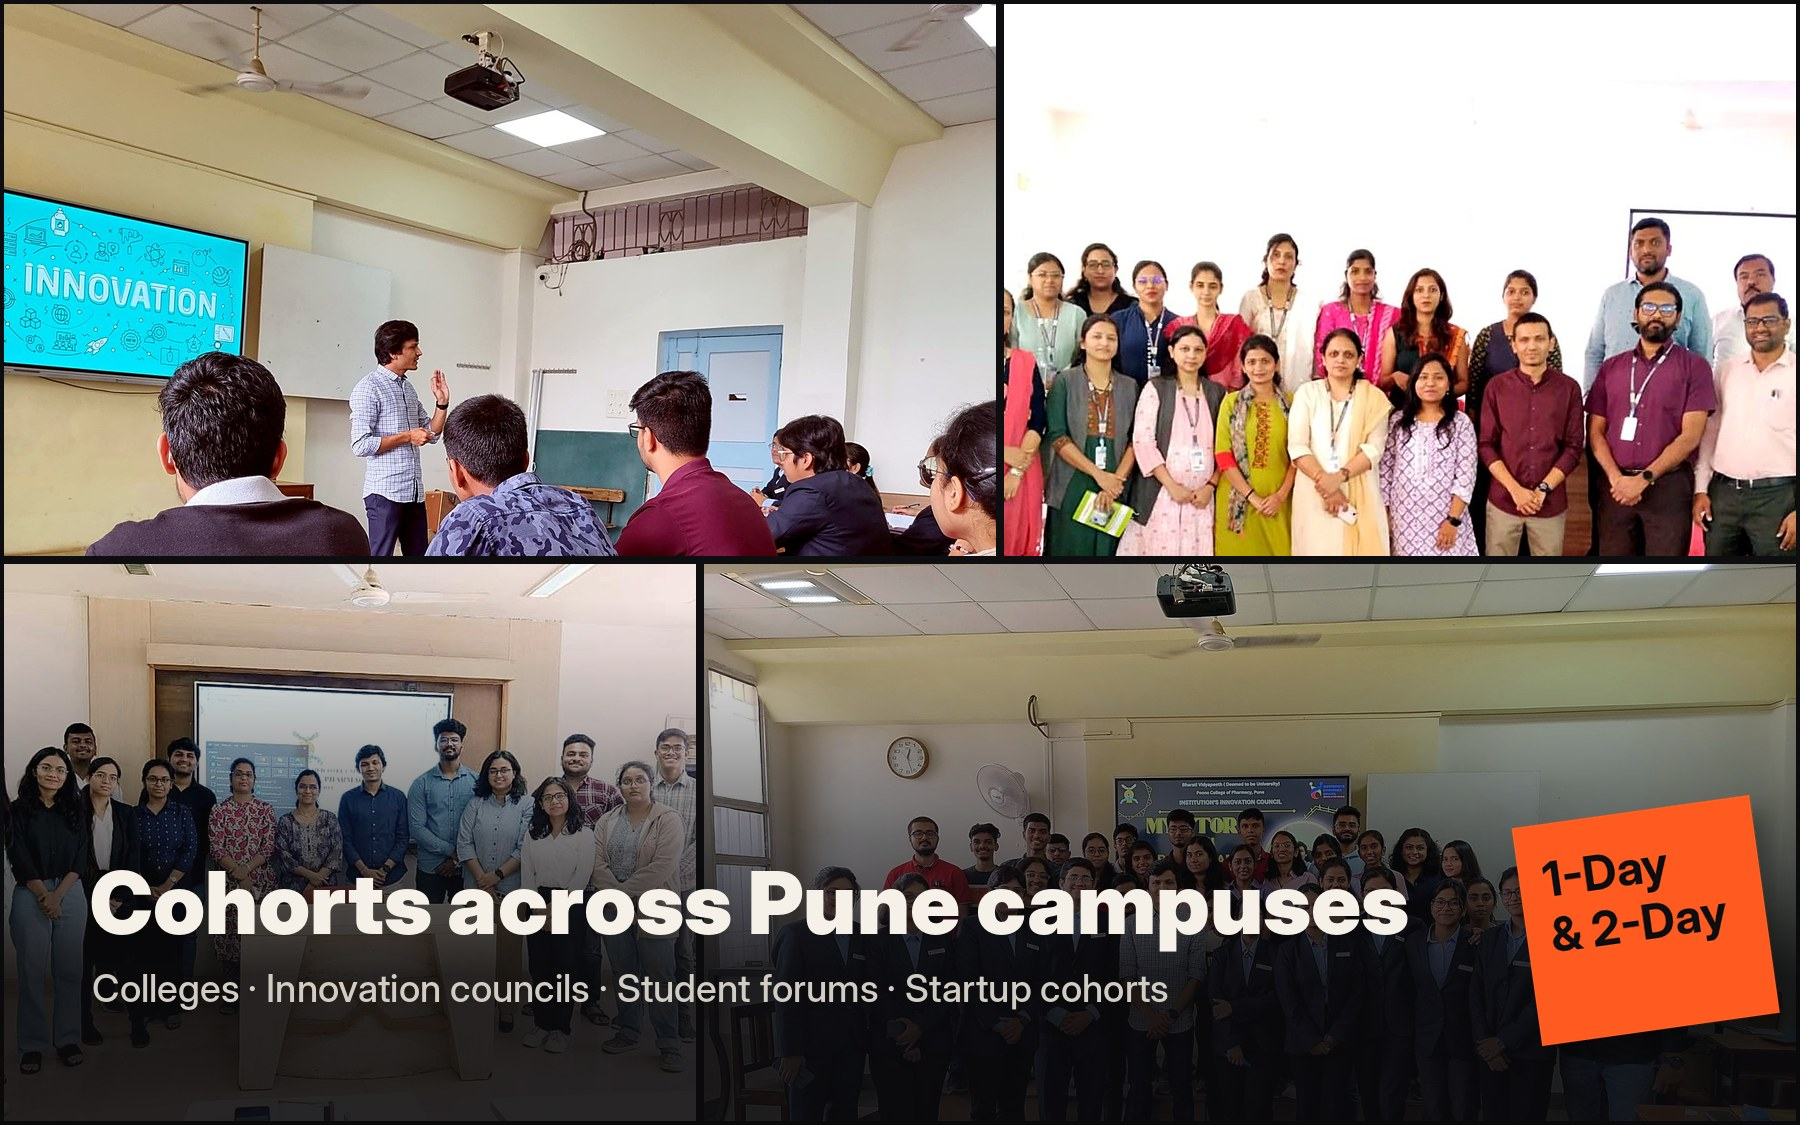
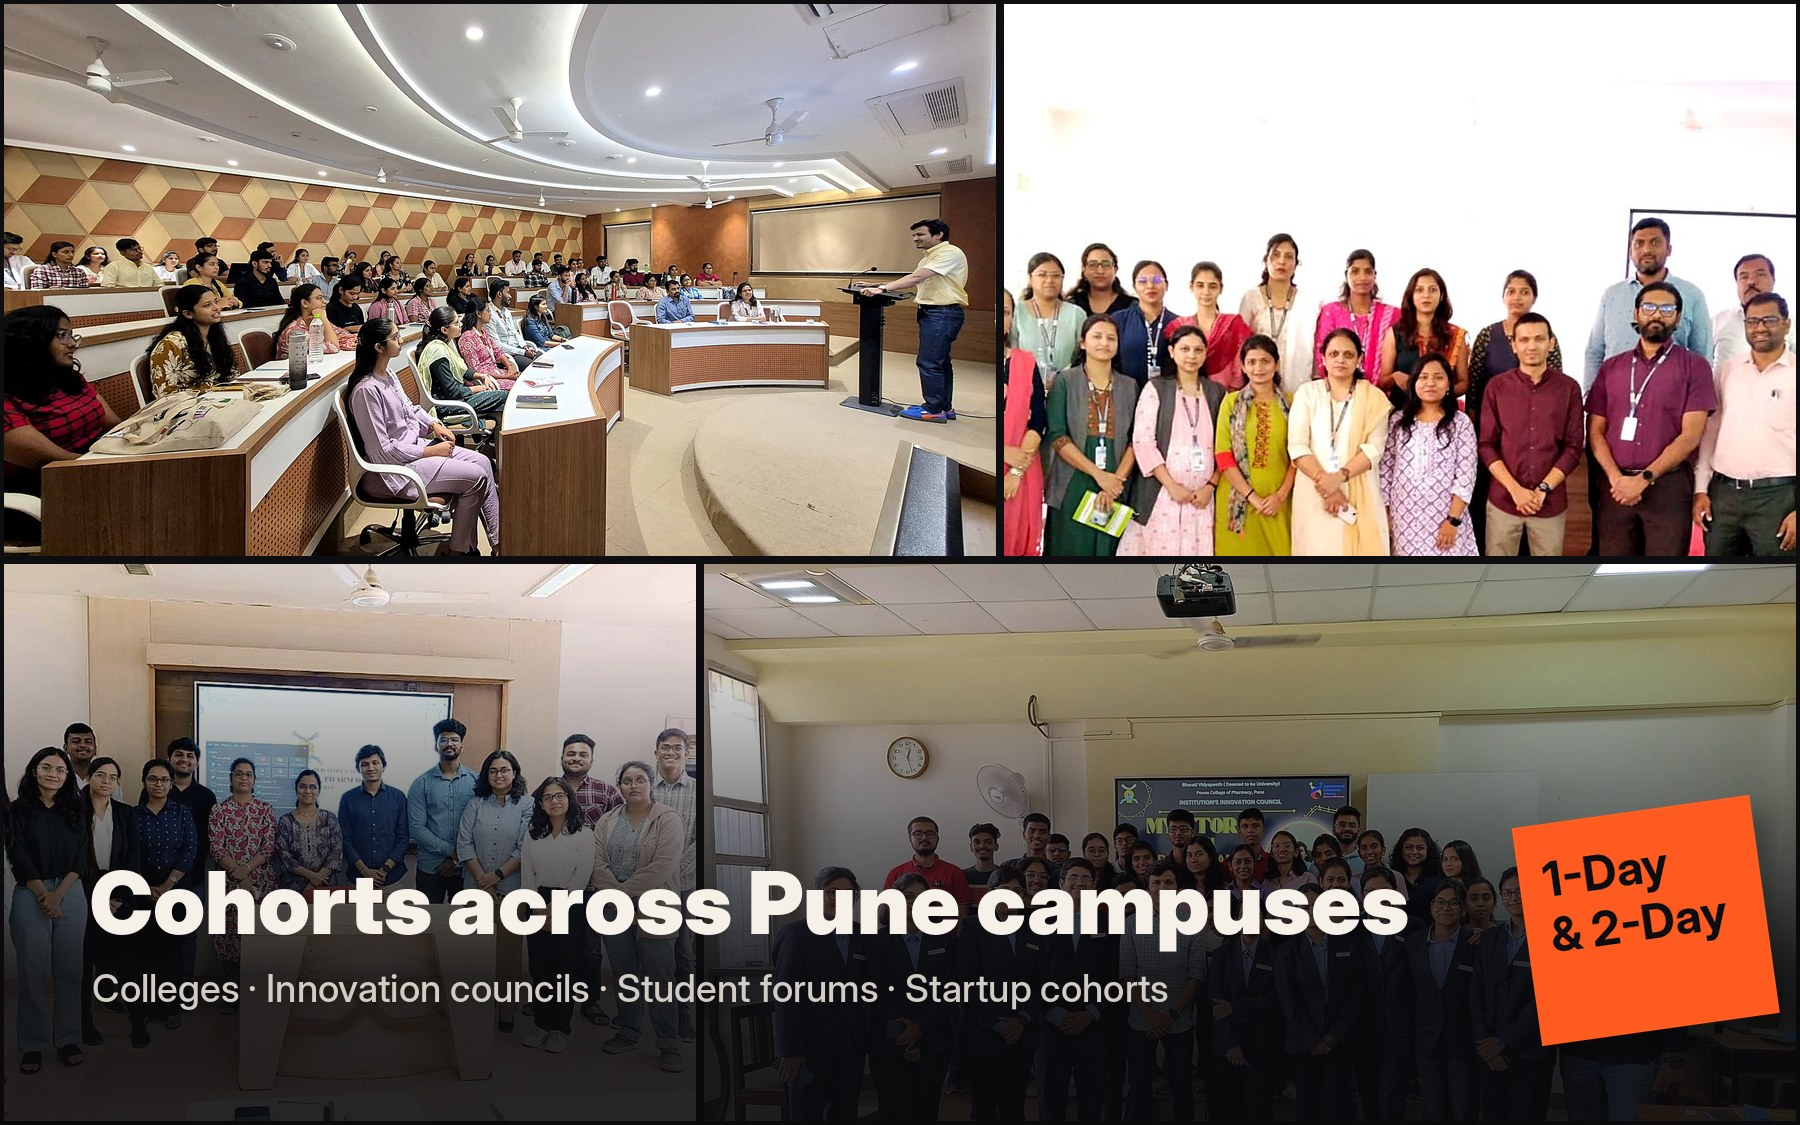
Gallery: add Dr. D. Y. Patil, Pimpri-Chinchwad auditorium photos
Claude-Session: https://claude.ai/code/session_014o5ZHnjMXf5SUri4hk32Rd

Changed region(s): [[0.0, 0.0, 0.56, 0.4978]]

diff --git a/index.html b/index.html
@@ -789,6 +789,7 @@ footer a:hover{color:#fff}
     </div>
     <div class="masonry" id="gal-photos">
       <figure class="reveal"><img src="assets/img/g-podium.jpg" alt="Dr. Niiraj addressing students at MET Bhujbal Knowledge City" loading="lazy" /><figcaption>Keynote at MET Institute of Pharmacy</figcaption></figure>
+      <figure class="reveal"><img src="assets/img/g-dyp-talk.jpg" alt="Dr. Niiraj speaking on Scope and Opportunities after PharmD at Dr. D. Y. Patil, Pimpri-Chinchwad" loading="lazy" /><figcaption>"Scope &amp; Opportunities after PharmD" — Dr. D. Y. Patil, Pimpri-Chinchwad</figcaption></figure>
       <figure class="reveal"><img src="assets/img/g-students-huddle.jpg" alt="Students gathered around during a workshop activity" loading="lazy" /><figcaption>Up close with the cohort</figcaption></figure>
       <figure class="reveal"><img src="assets/img/g-business-model.jpg" alt="Student presenting a business model" loading="lazy" /><figcaption>Business model pitch</figcaption></figure>
       <figure class="reveal"><img src="assets/img/g-mystory-screen.jpg" alt="My Story with Dr. Niraj Bafna session screen" loading="lazy" /><figcaption>"My Story" — IIC session</figcaption></figure>
@@ -800,10 +801,9 @@ footer a:hover{color:#fff}
       <figure class="reveal"><img src="assets/img/g-crowd-niraj.jpg" alt="Dr. Niiraj with a large student group" loading="lazy" /><figcaption>Energy check</figcaption></figure>
       <figure class="reveal"><img src="assets/img/g-team-present.jpg" alt="Team presenting their roles" loading="lazy" /><figcaption>Team roles &amp; plan</figcaption></figure>
       <figure class="reveal"><img src="assets/img/g-iic-group.jpg" alt="Innovation session in a classroom" loading="lazy" /><figcaption>Innovation session</figcaption></figure>
-      <figure class="reveal"><img src="assets/img/g-niraj-pointing.jpg" alt="Interactive discussion with students" loading="lazy" /><figcaption>Interactive discussion</figcaption></figure>
       <figure class="reveal"><img src="assets/img/g-big-group.jpg" alt="Faculty group photo" loading="lazy" /><figcaption>With faculty</figcaption></figure>
       <figure class="reveal"><img src="assets/img/g-cohort-photo.jpg" alt="Workshop cohort group photo" loading="lazy" /><figcaption>Pitch-day cohort</figcaption></figure>
-      <figure class="reveal"><img src="assets/img/g-fullhouse.jpg" alt="Students in blazers with the mentor" loading="lazy" /><figcaption>IIC cohort</figcaption></figure>
+      <figure class="reveal"><img src="assets/img/g-dyp-stage.jpg" alt="Session in the auditorium at Dr. D. Y. Patil, Pimpri-Chinchwad" loading="lazy" /><figcaption>Auditorium session — Dr. D. Y. Patil, Pimpri-Chinchwad</figcaption></figure>
     </div>
 
     <h3 class="h3s reveal">In motion <small>Tap to play · sound on</small></h3>
